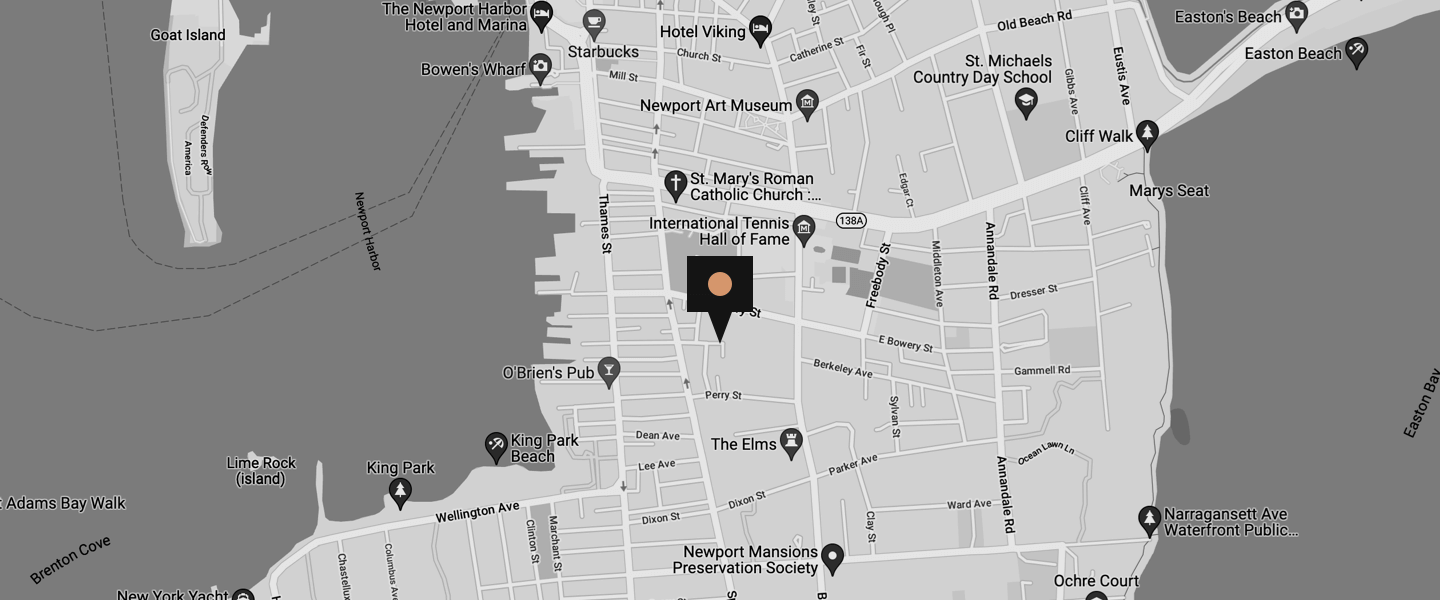
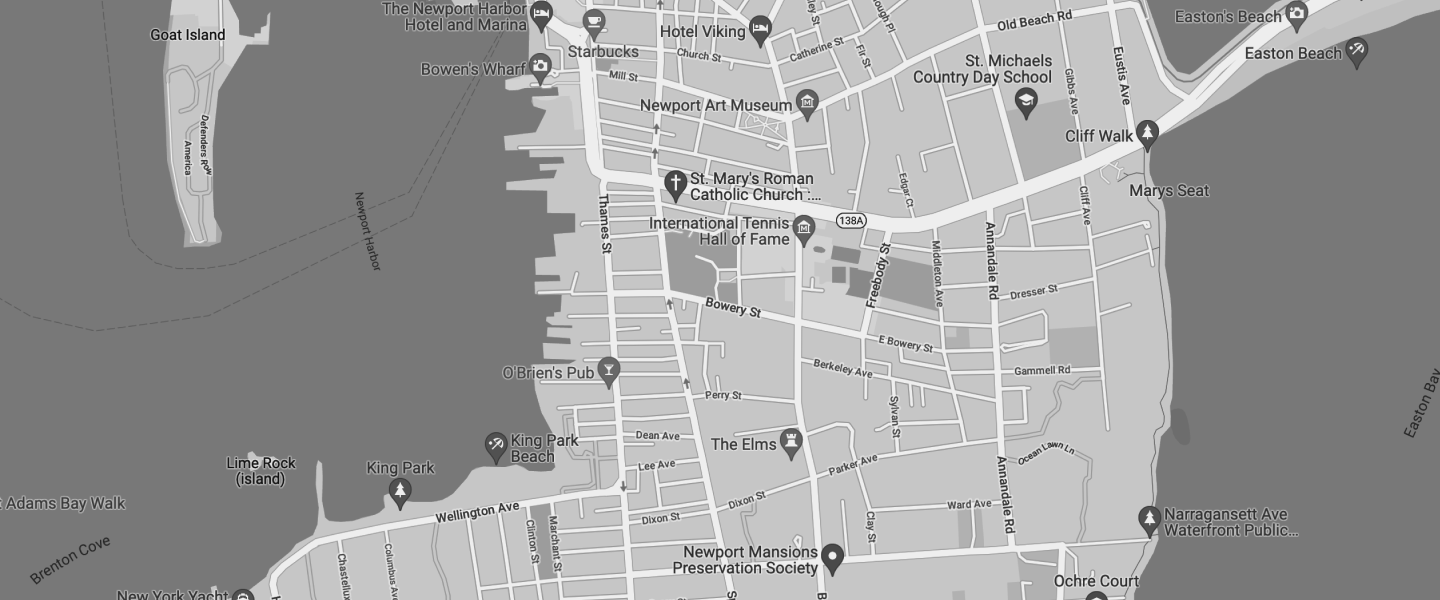
Compilation of the desktop view

diff --git a/location.html b/location.html
@@ -1,12 +1,98 @@
 <!DOCTYPE html>
 <html lang="en">
-<head>
-    <meta charset="UTF-8">
-    <meta http-equiv="X-UA-Compatible" content="IE=edge">
-    <meta name="viewport" content="width=device-width, initial-scale=1.0">
-    <title>Document</title>
-</head>
-<body>
-    
-</body>
+  <head>
+    <meta charset="UTF-8" />
+    <meta name="viewport" content="width=device-width, initial-scale=1.0" />
+
+    <link rel="shortcut icon" href="./images/favicon-32x32.png" type="image/x-icon">
+
+    <link rel="stylesheet" href="./css/style.css" />
+
+
+    <title>Art gallery website - Location</title>
+  </head>
+  <body>
+    <main class="main container">
+      <div id="maps">
+       
+        <div class="marker">
+
+         
+
+          <svg class="maker-image" width="66" height="88" viewBox="0 0 66 88" fill="none" xmlns="http://www.w3.org/2000/svg">
+            <g >
+            <path id="Combined Shape" fill-rule="evenodd" clip-rule="evenodd" d="M66 0H0V56H21L33 88L45 56H66V0Z" fill="#151515"/>
+            <circle id="Oval" cx="33" cy="28" r="12" fill="#D5966C"/>
+            </g>
+            </svg>
+            <div  class="description">
+              <p>
+               "AmaliTech is a social business empowering the next generation of technology leaders in sub-Saharan Africa that reinvests its surplus in further training, network growth and local community support on the ground."
+              </p>
+              <address >
+               Located in: SSNIT House <br>
+               Address: 27 Ama Akroma Rd, Takoradi <br>
+               Phone: 020 020 0966
+              </address>
+             </div>
+        </div>
+        
+          
+
+        <a  class="p-l" href="./index.html">
+          <button class="btn-l">
+            <svg class="r-left" width="10" height="24" xmlns="http://www.w3.org/2000/svg">
+              <path stroke="#FFF" fill="none" d="m1 0 8 12-8 12"></path>
+            </svg>
+          </button>
+          <button class="btn-l" >BACK TO HOME</button>
+        </a>
+      </div>
+      <div class="address">
+        <div class="section-1">
+          <h1 class="h2-uppercase">Our Location</h1>
+        </div>
+        
+        <div class="section-2">
+          <h2 class="h3-gold h3-uppercase">99 King Street</h2>
+          <p class="p-light address__p">
+            Newport<br />RI 02840<br />United States of America
+          </p>
+          <p class="p-messsage p-light">
+            Our newly opened gallery is located near the Edward King House on 99
+            King Street, the Modern Art Gallery is free to all visitors and open
+            seven days a week from 8am to 9pm.
+          </p>
+        </div>
+      </div>
+    </main>
+    <footer class="locationFoter">
+      <div class="bland">
+         <h3 class="h3-like h2-uppercase">
+             Modern <br />
+             Art Gallary
+           </h3>
+      </div>
+      
+       <div class="message">
+         <p class="quoteLocation">
+             The Modern Art Gallary is free to all visitors and open seven days a
+             week from 8am to 9pm. Find us at 99 King Street, Newport, USA.
+           </p>
+       </div>
+       <div class="social">
+         <ul class="social-links">
+             <li>
+              <svg width="20" class="locationsocial" height="20" xmlns="http://www.w3.org/2000/svg"><path d="M18.896 0H1.104C.494 0 0 .494 0 1.104v17.793C0 19.506.494 20 1.104 20h9.58v-7.745H8.076V9.237h2.606V7.01c0-2.583 1.578-3.99 3.883-3.99 1.104 0 2.052.082 2.329.119v2.7h-1.598c-1.254 0-1.496.597-1.496 1.47v1.928h2.989l-.39 3.018h-2.6V20h5.098c.608 0 1.102-.494 1.102-1.104V1.104C20 .494 19.506 0 18.896 0Z" /></svg>
+             </li>
+             <li>
+              <svg width="20" class="locationsocial" height="20" xmlns="http://www.w3.org/2000/svg"><path d="M10 1.802c2.67 0 2.987.01 4.042.059 2.71.123 3.975 1.409 4.099 4.099.048 1.054.057 1.37.057 4.04 0 2.672-.01 2.988-.057 4.042-.124 2.687-1.387 3.975-4.1 4.099-1.054.048-1.37.058-4.041.058-2.67 0-2.987-.01-4.04-.058-2.718-.124-3.977-1.416-4.1-4.1-.048-1.054-.058-1.37-.058-4.041 0-2.67.01-2.986.058-4.04.124-2.69 1.387-3.977 4.1-4.1 1.054-.048 1.37-.058 4.04-.058ZM10 0C7.284 0 6.944.012 5.877.06 2.246.227.227 2.242.061 5.877.01 6.944 0 7.284 0 10s.012 3.057.06 4.123c.167 3.632 2.182 5.65 5.817 5.817 1.067.048 1.407.06 4.123.06s3.057-.012 4.123-.06c3.629-.167 5.652-2.182 5.816-5.817.05-1.066.061-1.407.061-4.123s-.012-3.056-.06-4.122C19.777 2.249 17.76.228 14.124.06 13.057.01 12.716 0 10 0Zm0 4.865a5.135 5.135 0 1 0 0 10.27 5.135 5.135 0 0 0 0-10.27Zm0 8.468a3.333 3.333 0 1 1 0-6.666 3.333 3.333 0 0 1 0 6.666Zm5.338-9.87a1.2 1.2 0 1 0 0 2.4 1.2 1.2 0 0 0 0-2.4Z"/></svg>
+             </li>
+             <li>
+              <svg width="20" class="locationsocial" height="17" xmlns="http://www.w3.org/2000/svg"><path d="M20 2.172a8.192 8.192 0 0 1-2.357.646 4.11 4.11 0 0 0 1.805-2.27 8.22 8.22 0 0 1-2.606.996A4.096 4.096 0 0 0 13.847.248c-2.65 0-4.596 2.472-3.998 5.037A11.648 11.648 0 0 1 1.392 1a4.109 4.109 0 0 0 1.27 5.478 4.086 4.086 0 0 1-1.858-.513c-.045 1.9 1.318 3.679 3.291 4.075a4.113 4.113 0 0 1-1.853.07 4.106 4.106 0 0 0 3.833 2.849A8.25 8.25 0 0 1 0 14.658a11.616 11.616 0 0 0 6.29 1.843c7.618 0 11.923-6.434 11.663-12.205A8.354 8.354 0 0 0 20 2.172Z"/></svg>
+             </li>
+           </ul>
+       </div>
+     </footer>
+  </body>
 </html>

diff --git a/css/style.css b/css/style.css
@@ -1,5 +1,6 @@
 /* importing two font families from google fonts api */
-@import url('https://fonts.googleapis.com/css2?family=Big+Shoulders+Display&family=Outfit&display=swap');
+@import url('https://fonts.googleapis.com/css2?family=Big+Shoulders+Display:wght@900&family=Outfit:wght@100&display=swap');
+
 * {
   margin: 0;
   padding: 0;
@@ -12,6 +13,9 @@ h6,h5,h4,h3, h2, h1 {
 
 .gly-t-s h2{
     width: 300;
+    font-size: 50px;
+    line-height: 45px;
+    font-weight: 900;
 }
 .gly-t-s p{
     width: 300;
@@ -34,8 +38,8 @@ body, p {
 }
 
 h1 {
-  font-size: 85px;
-  line-height: 80px;
+  font-size: 70px;
+  line-height: 65px;
   font-weight: 700;
   font-style: initial;
   padding: relative;
@@ -267,7 +271,7 @@ button:nth-child(2) {
     padding-top: 20px;
 }
 .h3-like{
-    line-height: 60px;
+    line-height: 55px;
 }
 .social-links li{
 list-style: none;
@@ -279,11 +283,172 @@ svg{
 }
 
 svg:hover{
-    transform: rotate(360deg);
     fill:#D5966C;
     cursor: pointer;
 }
 
 .social-links{
     display: flex;
+}
+
+.locationFoter{
+  bottom: 0px;
+    left: 0px;
+    right: 0px;
+    margin: 0px;
+    background: #D5966C;
+    display: flex;
+    justify-content: stretch;
+    align-items: stretch;
+    padding: 50px;
+    padding-left: 100px;
+    padding-right: 100px;
+    color: #151515;
+}
+
+.locationsocial:hover{
+  fill:#FFFFFF;
+  cursor: pointer;
+}
+
+.locationsocial{
+  fill:#151515;
+}
+
+.quoteLocation{
+  color: #151515;
+}
+
+.address{
+  display: flex;
+  flex-direction: row;
+  justify-content: space-evenly;
+  color: #FFFFFF;
+  background-color: #151515;
+  padding-left: 100px;
+  padding-right: 100px;
+  padding-top: 70px;
+  padding-bottom: 70px;
+}
+
+.section-1{
+  flex: 1;
+  color: white;
+  justify-content: center;
+}
+
+.section-2{
+  flex: 1;
+  color: white !important;
+}
+
+.section-1 h1{
+  width: 300px;
+}
+
+.h2-uppercase , .h3-uppercase{
+  text-transform: uppercase;
+}
+
+.h3-gold{
+  color: #D5966C;
+  font-size: 35px;
+  padding-bottom: 15px;
+}
+
+.p-light {
+  color: #FFFFFF;
+  font-size: 16px;
+  word-spacing: 5;
+}
+
+.address_p{
+  padding-bottom: 20px;
+}
+
+.p-messsage{
+  padding-top: 20px;
+}
+
+#maps{
+  background-image: url("/images/desktop/image-map.png");
+  height: 600px;
+  width: 100%;
+}
+
+
+a .btn-l:nth-child(1) {
+  grid-column: 1;
+  grid-row: 1;
+  background-color: #D5966C;
+}
+a .btn-l:nth-child(2) {
+  grid-column: 2/7;
+  grid-row:  1/5;
+  background-color: #151515;
+}
+
+
+ a:hover > .btn-l:nth-child(2) {
+  background-color: #D5966C;
+  cursor: pointer;
+}
+ a:hover > .btn-l:nth-child(1) {
+  background-color: #151515;
+  cursor: pointer;
+}
+
+.r-left{
+  transform: rotate(180deg);
+  -webkit-transform: rotate(180deg);
+  -moz-transform: rotate(180deg);
+  -ms-transform: rotate(180deg);
+  -o-transform: rotate(180deg);
+}
+.p-l{
+  margin-left: 153px;
+}
+
+.marker{
+position: absolute;
+top: 200px;
+left: 55%;
+display: inline-flex;
+text-align: center;
+}
+
+.description{
+  background-color: #181616ca;
+  width: 400px;
+  border-radius: 10px;
+  display: none;
+  font-family: monospace;
+  -webkit-border-radius: 10px;
+  -moz-border-radius: 10px;
+  -ms-border-radius: 10px;
+  -o-border-radius: 10px;
+}
+
+.description p, .description address{
+  color: #dedcdc;
+  text-align: justify;
+  padding: 20px;
+  font-size: small;
+  line-height: 1.2;
+}
+
+.maker-image{
+  cursor: pointer;
+}
+
+.marker:hover .description{
+  display: block;
+}
+
+.marker:hover .maker-image{
+  transform: scale(1.1);
+  -webkit-transform: scale(1.1);
+  -moz-transform: scale(1.1);
+  -ms-transform: scale(1.1);
+  -o-transform: scale(1.1);
 }

diff --git a/index.html b/index.html
@@ -20,9 +20,9 @@
       <p>The arts in the modern collection of the Modern Art gly all started from a spark of inspiration. Will
         these
         pieces inspire you? Visit us and find out.</p>
-      <a href=".../routes/location.html">
+      <a href="./location.html">
         <button class="btn" id="gold">OUR LOCATION</button>
-        <button class="btn" id="black">
+        <button class="btn" id="dark">
           <svg width="10" height="24" xmlns="http://www.w3.org/2000/svg">
             <path stroke="#FFF" fill="none" d="m1 0 8 12-8 12"></path>
           </svg>
